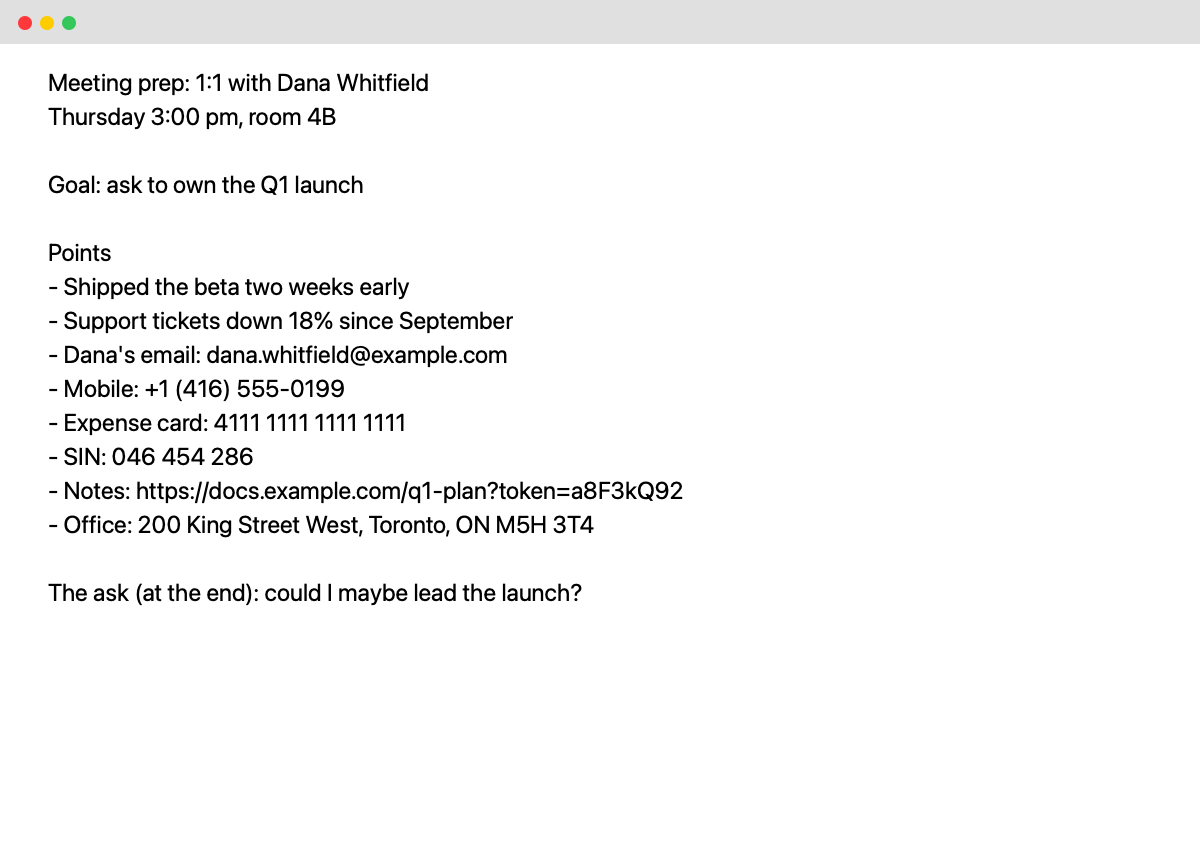
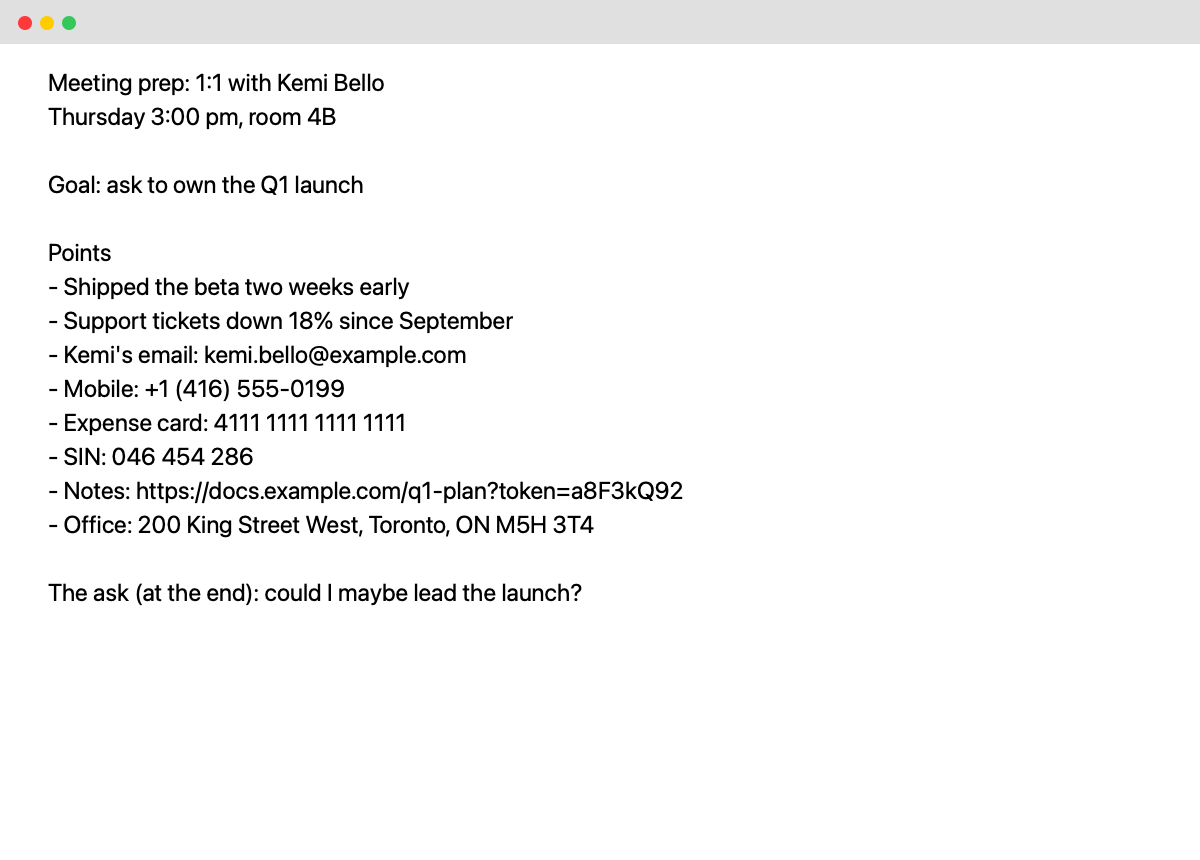
chore: rename the sample person in fixtures and tests to Kemi Bello
The meeting-prep fixture, its rendered PNG, the redaction tests and the
scripted voice replies now use Kemi Bello. The voice eval was regenerated
offline with --write: only replies_sha256 changes, because the replies file
changed; every count and match is the same.

Changed region(s): [[0.0617, 0.393, 0.4317, 0.4233], [0.2158, 0.0605, 0.37, 0.1209]]

diff --git a/apps/mac/Tests/ScreenContextCoreTests/ScreenContextCoreTests.swift b/apps/mac/Tests/ScreenContextCoreTests/ScreenContextCoreTests.swift
@@ -6,7 +6,7 @@ import XCTest
 private let fixtures = URL(fileURLWithPath: #filePath).deletingLastPathComponent().appending(path: "../../Fixtures").standardized
 
 /// Every personal value planted in the synthetic fixture. None may survive redaction.
-private let planted = ["Dana", "Whitfield", "dana.whitfield", "example.com", "555-0199", "555", "0199", "416",
+private let planted = ["Kemi", "Bello", "kemi.bello", "example.com", "555-0199", "555", "0199", "416",
                        "4111", "046 454 286", "454", "a8F3kQ92", "docs.example", "token=", "200 King", "King Street", "M5H", "3T4"]
 
 private func assertNoPlanted(_ text: String, file: StaticString = #filePath, line: UInt = #line) {
@@ -65,7 +65,7 @@ final class FixtureImageTests: XCTestCase {
         let image = try ImageLoading.cgImage(at: fixtures.appending(path: "meeting-prep.png"))
         let ocr = try VisionTextReader().read(image)
         XCTAssertTrue(ocr.contains("Q1 launch"), "OCR read the fixture: \(ocr.prefix(80))")
-        XCTAssertTrue(ocr.contains("Whitfield"), "the fixture really contains the planted name before redaction")
+        XCTAssertTrue(ocr.contains("Bello"), "the fixture really contains the planted name before redaction")
         let redacted = Redactor().redact(ocr)
         assertNoPlanted(redacted.text)
         XCTAssertGreaterThanOrEqual(redacted.total, 8)

diff --git a/apps/mac/Tests/ScreenContextCoreTests/VoiceTests.swift b/apps/mac/Tests/ScreenContextCoreTests/VoiceTests.swift
@@ -127,7 +127,7 @@ final class SequenceProtocol: URLProtocol, @unchecked Sendable {
     override func stopLoading() {}
 }
 
-let voiceReceiptJSON = #"{"round_id":"vr1","receipt_id":"rc1","replayed":false,"transcript":"Um, I think maybe I should lead it.","metrics":{"word_count":8,"words_per_minute":132.5,"filler_count":1,"hedge_count":2,"restart_count":0,"pauses":{"count":1,"longest_ms":900},"onset_ms_approx":1200},"reply":{"move":"challenge","question":"You said maybe. Why should Dana pick you?","quote":"maybe I should lead it","quote_verified":true},"model":"meta-models/muse-spark-open-1026","provider_request_id":"chatcmpl-1","latency_ms":{"asr":2100,"model":1700,"total":3900},"extra":true}"#
+let voiceReceiptJSON = #"{"round_id":"vr1","receipt_id":"rc1","replayed":false,"transcript":"Um, I think maybe I should lead it.","metrics":{"word_count":8,"words_per_minute":132.5,"filler_count":1,"hedge_count":2,"restart_count":0,"pauses":{"count":1,"longest_ms":900},"onset_ms_approx":1200},"reply":{"move":"challenge","question":"You said maybe. Why should Kemi pick you?","quote":"maybe I should lead it","quote_verified":true},"model":"meta-models/muse-spark-open-1026","provider_request_id":"chatcmpl-1","latency_ms":{"asr":2100,"model":1700,"total":3900},"extra":true}"#
 
 final class VoiceRoundAPITests: XCTestCase {
     private func api() -> CoachAPI {

diff --git a/apps/mac/Sources/ScreenContextCore/Redactor.swift b/apps/mac/Sources/ScreenContextCore/Redactor.swift
@@ -17,7 +17,7 @@ public struct RedactionResult: Sendable, Equatable {
 ///
 /// Order matters: specific patterns first (emails, links, card-like and ID-like numbers), then
 /// Foundation's data detectors (addresses, phone numbers), then name recognition. A person name
-/// found anywhere is also removed everywhere else it appears ("Dana's email").
+/// found anywhere is also removed everywhere else it appears ("Kemi's email").
 public struct Redactor: Sendable {
     public static let method = "on-device-v1"
 
@@ -106,7 +106,7 @@ public struct Redactor: Sendable {
             if tag == .organizationName { orgs.append(token) }
             return true
         }
-        // Every word of a detected name, so "Dana's" and a bare "Whitfield" go too.
+        // Every word of a detected name, so "Kemi's" and a bare "Bello" go too.
         var personWords = Set<String>()
         for name in people {
             for part in name.split(separator: " ") where part.count >= 2 && part.first?.isUppercase == true {

diff --git a/apps/mac/Tests/ScreenContextCoreTests/PointingTests.swift b/apps/mac/Tests/ScreenContextCoreTests/PointingTests.swift
@@ -71,7 +71,7 @@ final class ScreenMappingTests: XCTestCase {
 
 final class LineMatcherTests: XCTestCase {
     let lines = [
-        line("Meeting prep: 1:1 with Dana Whitfield", y: 0.9),
+        line("Meeting prep: 1:1 with Kemi Bello", y: 0.9),
         line("Goal: ask to own the Q1 launch", y: 0.8),
         line("Shipped the beta two weeks early", y: 0.6),
         line("The ask (at the end): could I maybe lead the launch?", y: 0.2),
